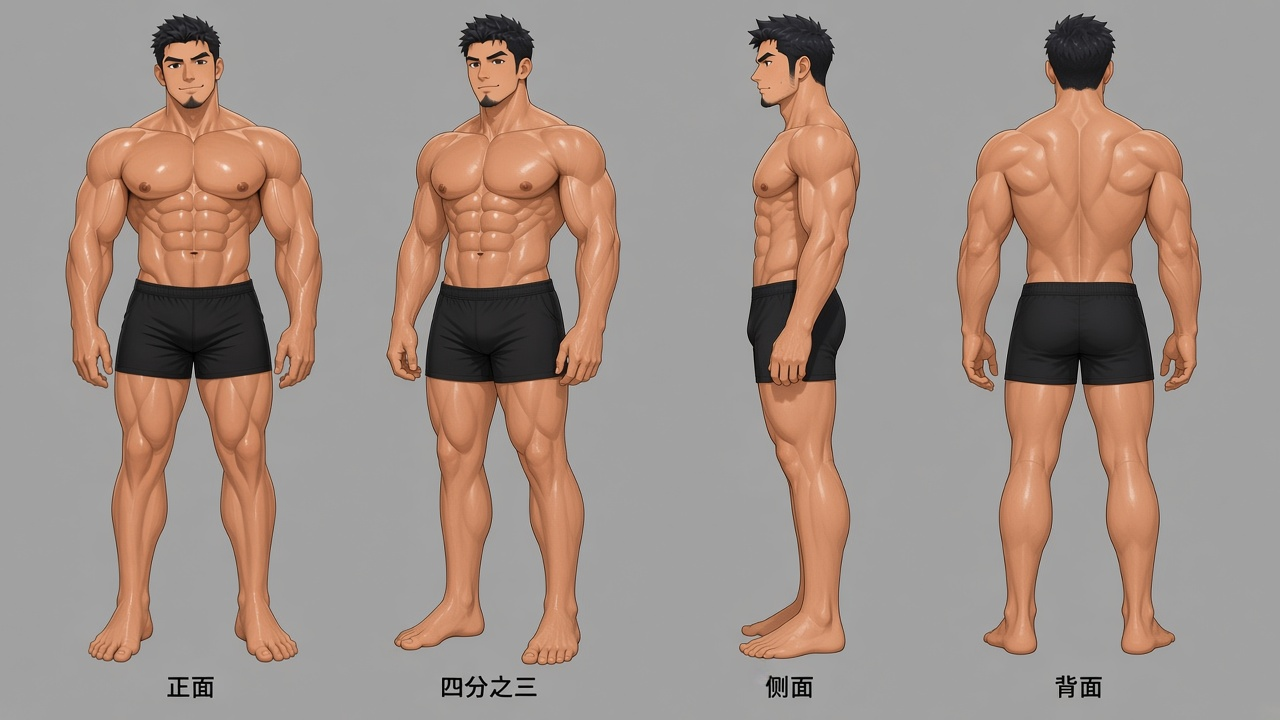
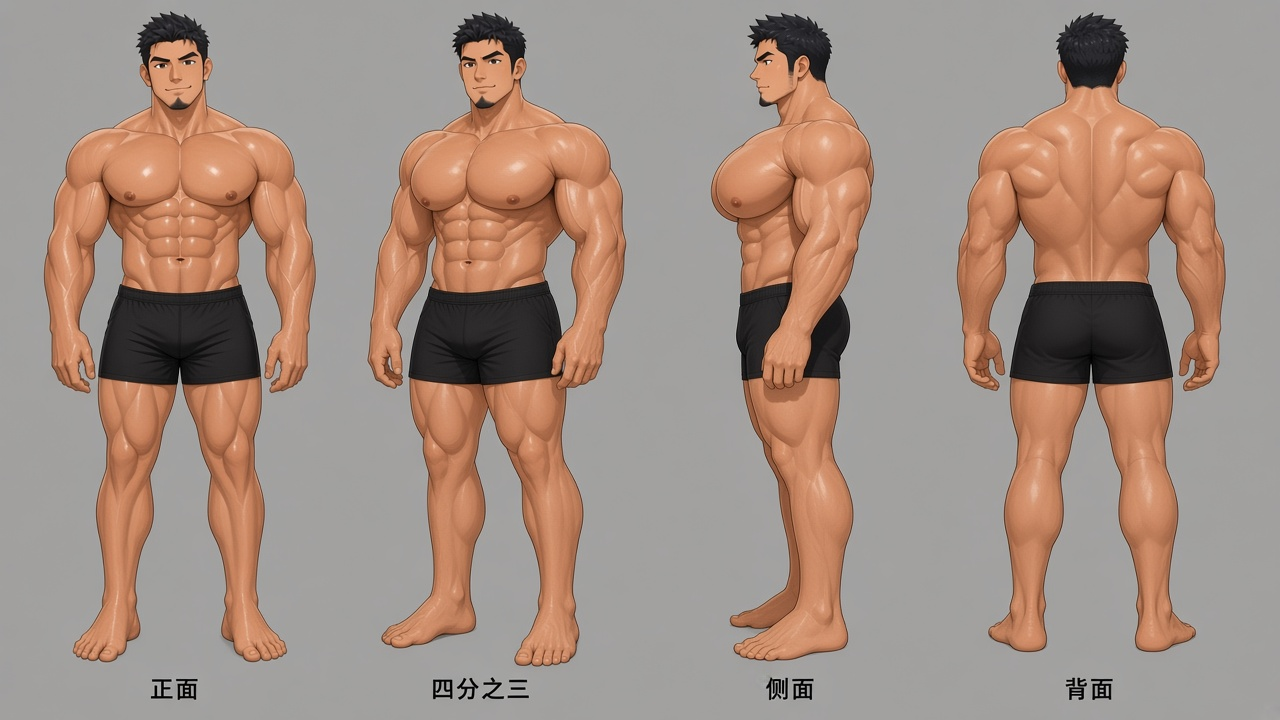
fix: 加厚胸肌，侧面不再发扁
正面和转面的胸改成又圆又厚，侧面能看出向前鼓出。脸和身高保持不变。

diff --git a/漫画分镜/多角度设定/设定说明.md b/漫画分镜/多角度设定/设定说明.md
@@ -5,7 +5,7 @@
 ## 识别点
 
 - 脸：短碎发。眼往侧看，深棕色。下颌收尖，下巴有一小撮山羊胡，颊侧淡胡茬。
-- 体：高，腿长。胸大而合理，肩宽，腹肌清楚。
+- 体：高，腿长。胸又圆又厚，侧面明显向前鼓出，肩宽，腹肌清楚。
 - 肤色：暖小麦色。
 
 ## 图
